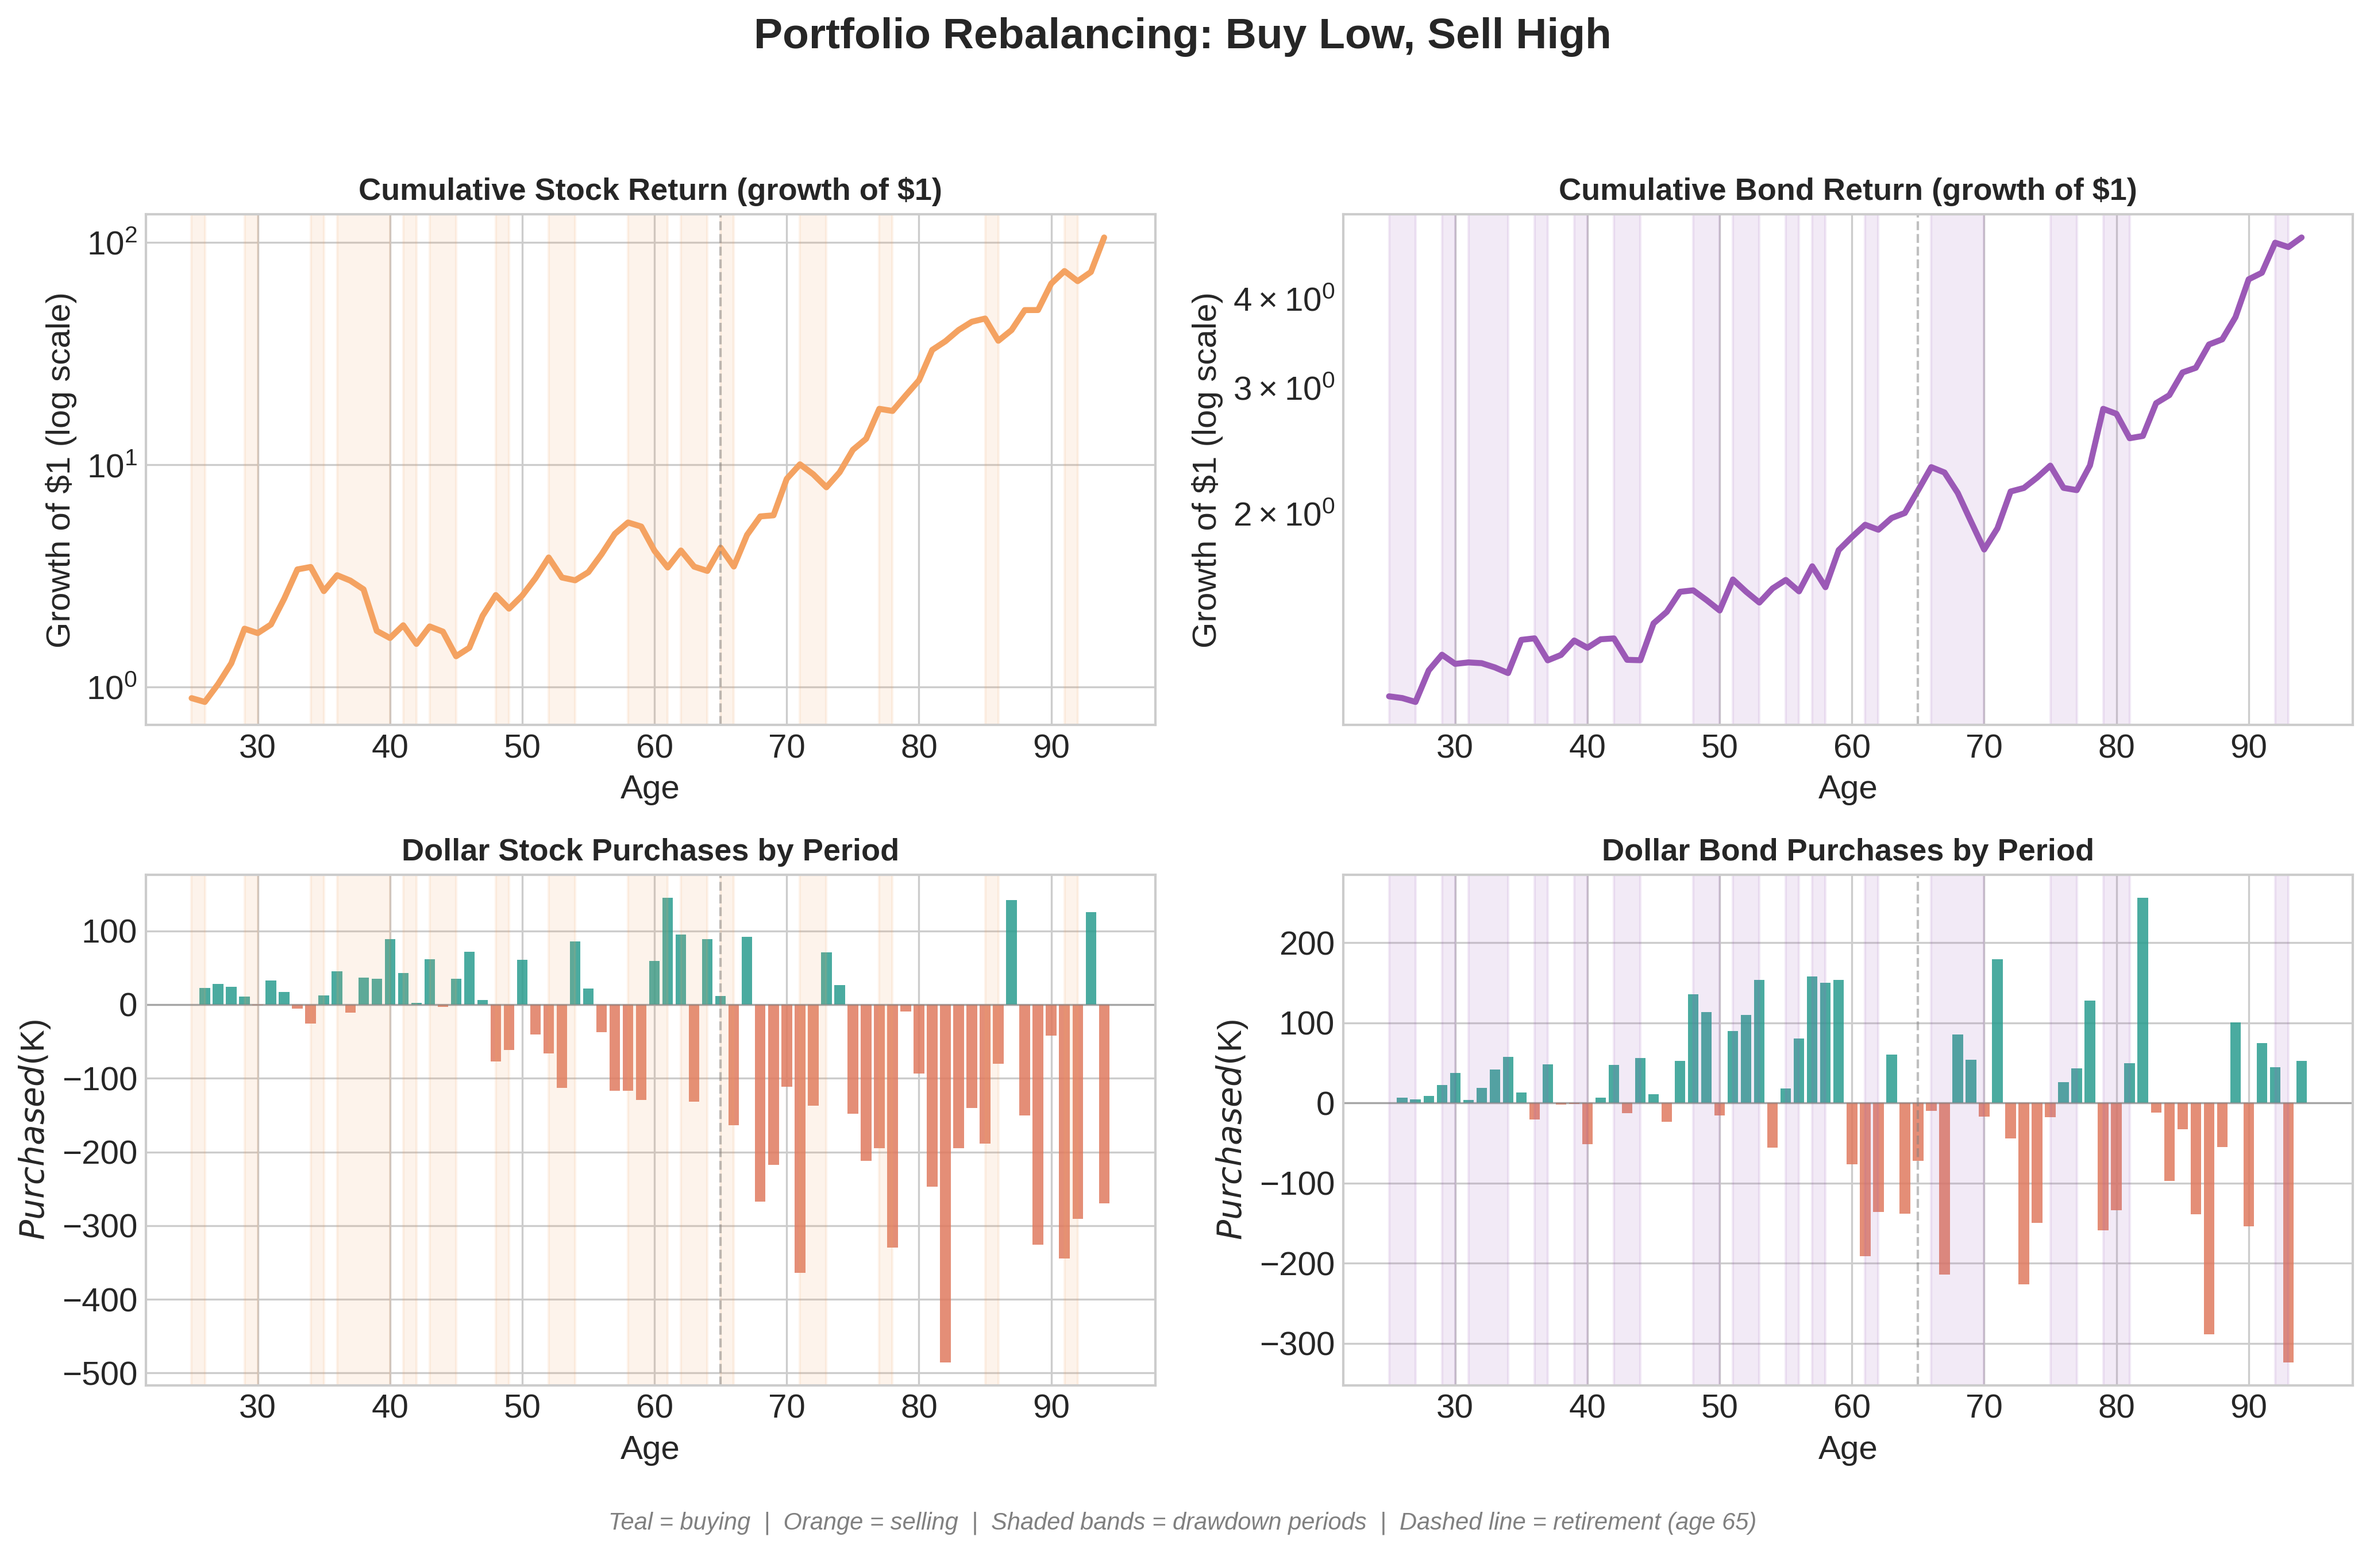
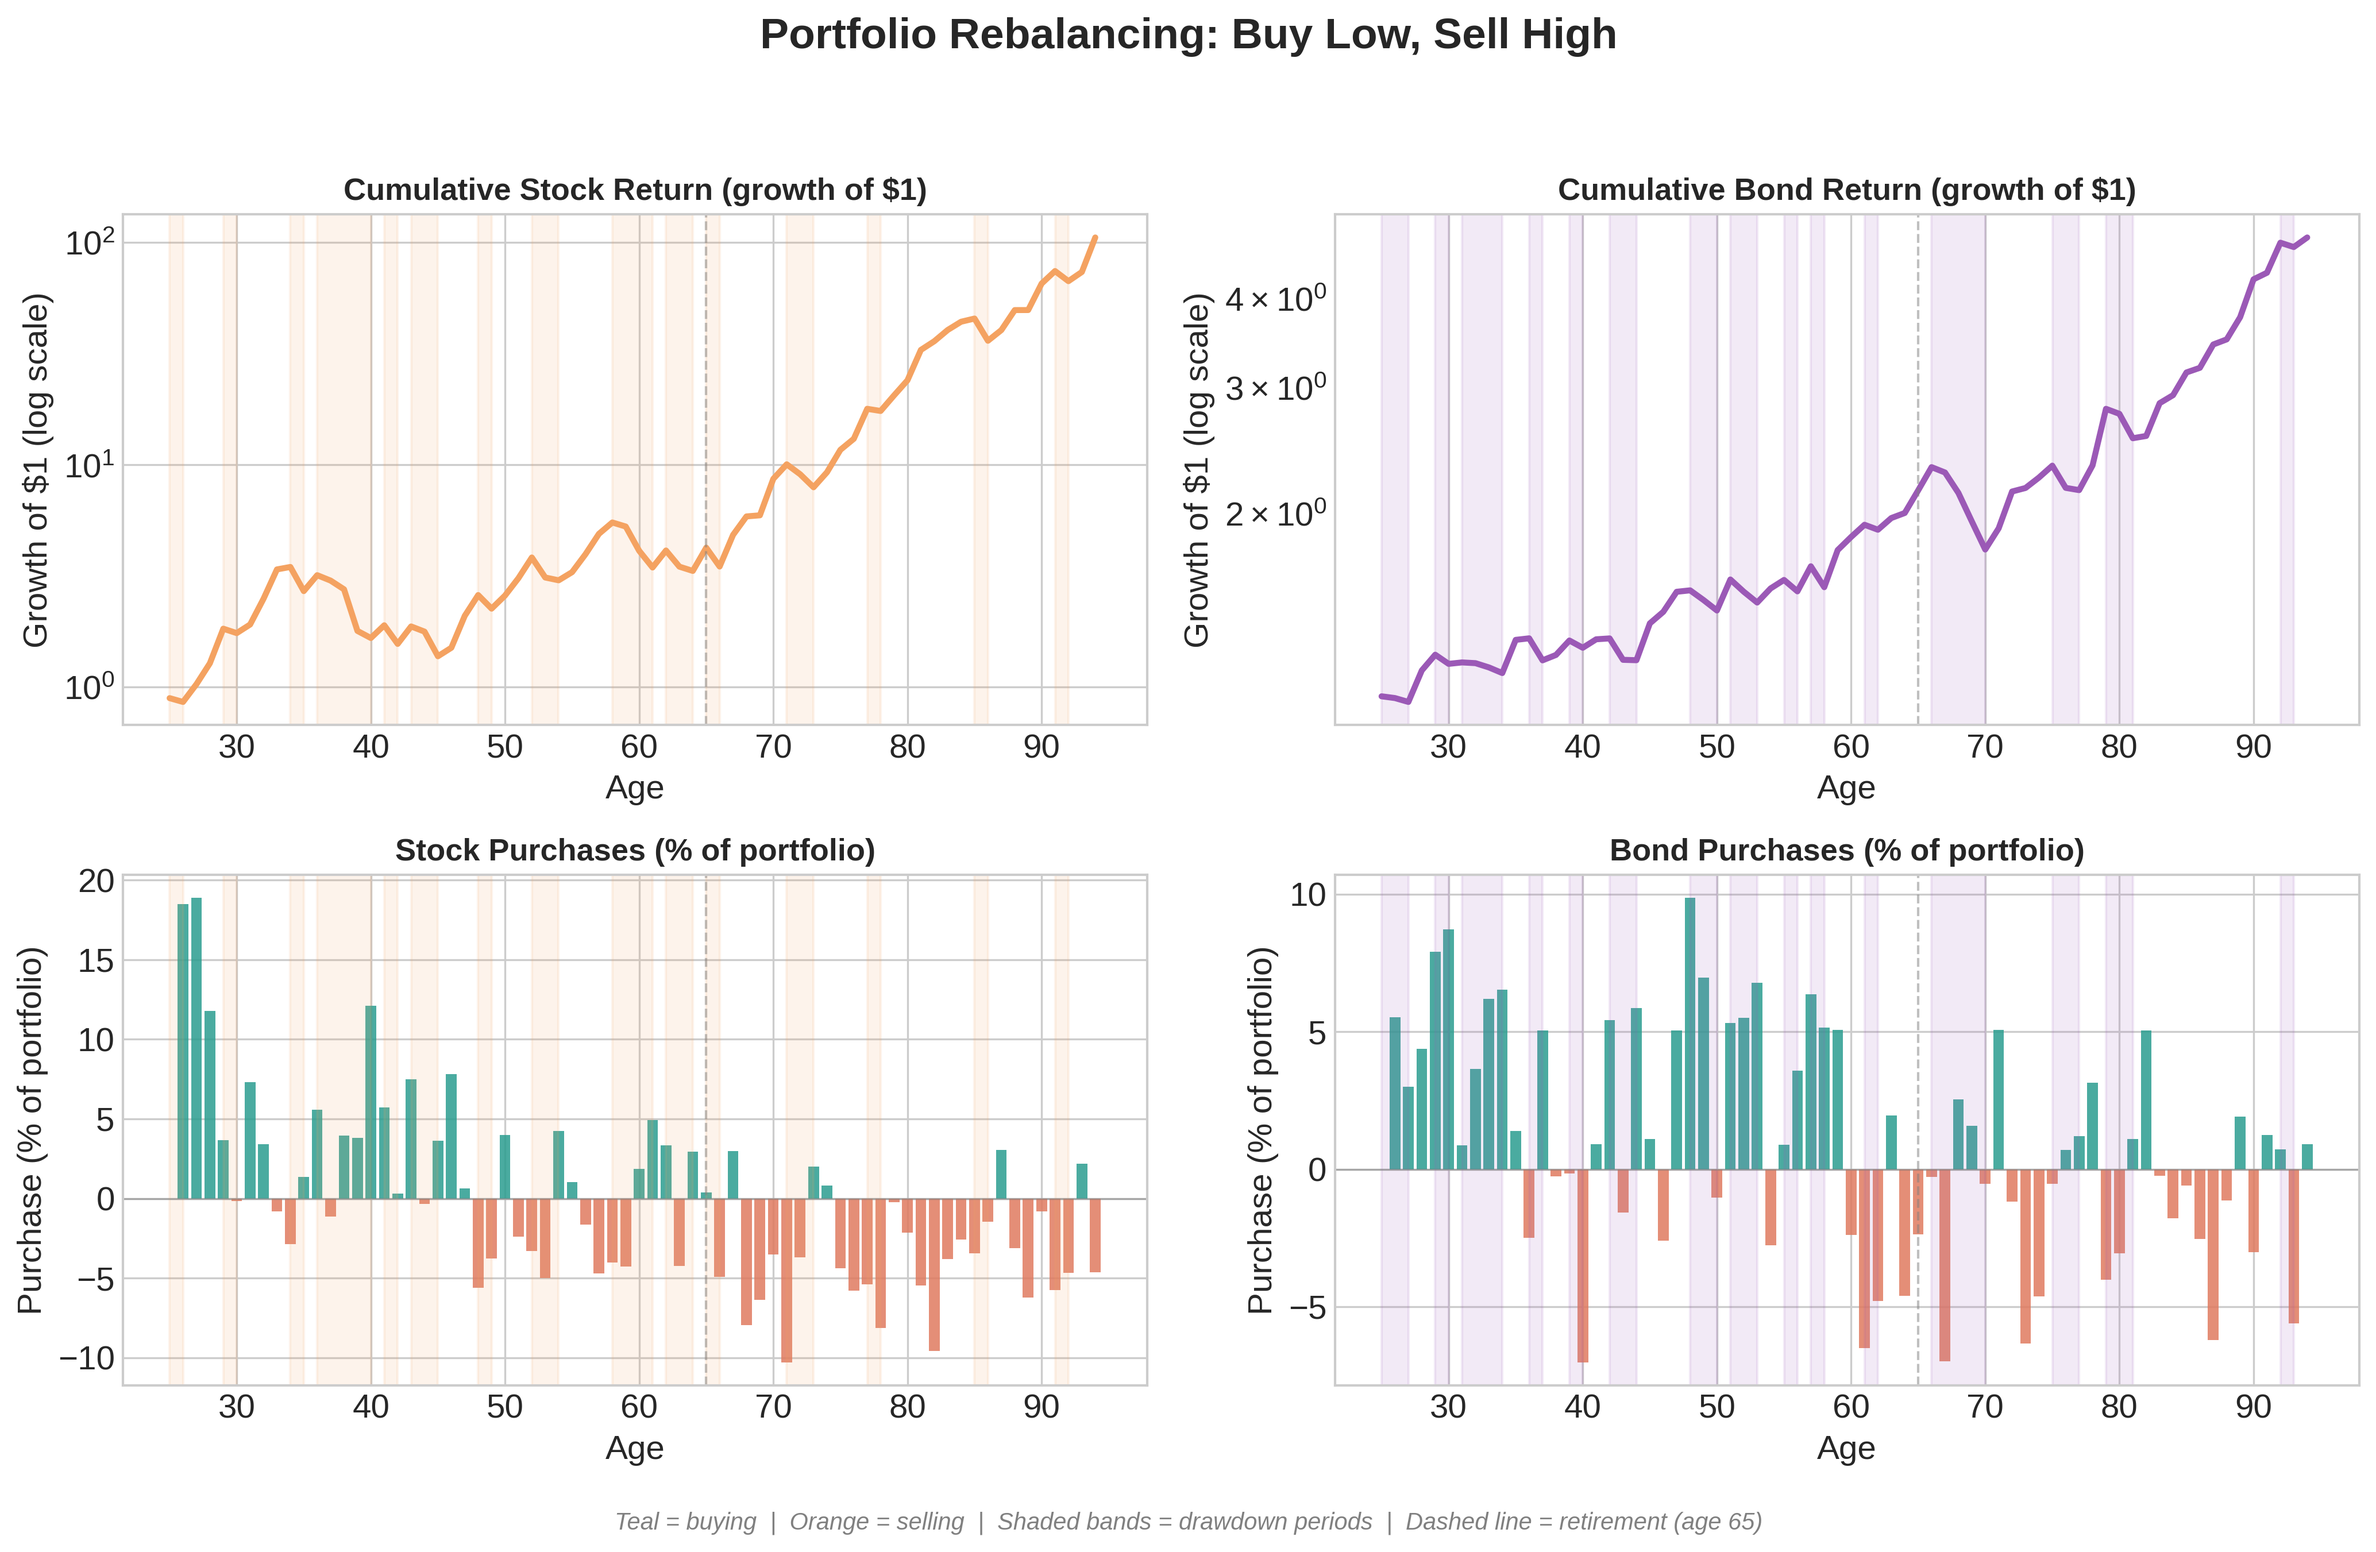
Normalize rebalancing purchases as % of portfolio
Dollar purchases scaled up with wealth, making early vs late career
bars incomparable. Now show purchases as % of portfolio value at
the time of the trade, putting all periods on the same footing.

https://claude.ai/code/session_01PpeKU6b83rqDxJ7jdo9ynp

diff --git a/generate_rebalancing_demo.py b/generate_rebalancing_demo.py
@@ -67,15 +67,15 @@ def compute_rebalancing_data(result, econ_params):
     stock_purchase = fw[1:] * w_s[1:] - stock_after
     bond_purchase = fw[1:] * w_b[1:] - bond_after
 
-    # Pure rebalancing component (all periods)
-    rebal_stock = fw * w_s * (port_ret - stock_ret)
-    rebal_bond = fw * w_b * (port_ret - bond_ret)
+    # Normalize by portfolio value at time of trade (% of portfolio)
+    stock_purchase_pct = stock_purchase / fw[1:]
+    bond_purchase_pct = bond_purchase / fw[1:]
 
     return {
         'stock_purchase': stock_purchase,
         'bond_purchase': bond_purchase,
-        'rebal_stock': rebal_stock,
-        'rebal_bond': rebal_bond,
+        'stock_purchase_pct': stock_purchase_pct,
+        'bond_purchase_pct': bond_purchase_pct,
         'stock_ret': stock_ret,
         'bond_ret': bond_ret,
         'port_ret': port_ret,
@@ -158,28 +158,28 @@ def generate_rebalancing_demo(seed=15, output_path=None):
     ax2.set_xlabel("Age")
     _shade_drawdowns(ax2, ages, growth_bond, bond_color)
 
-    # Panel 3: Dollar stock purchases
+    # Panel 3: Stock purchases as % of portfolio
     ax3 = axes[1, 0]
-    sp = data['stock_purchase']
+    sp = data['stock_purchase_pct'] * 100  # convert to percentage
     colors_s = [buy_color if v >= 0 else sell_color for v in sp]
     ax3.bar(purchase_ages, sp, color=colors_s, alpha=0.85, width=0.8)
     ax3.axhline(y=0, color='gray', linewidth=0.8, alpha=0.5)
-    ax3.set_title("Dollar Stock Purchases by Period", fontsize=13,
+    ax3.set_title("Stock Purchases (% of portfolio)", fontsize=13,
                    fontweight='bold')
-    ax3.set_ylabel("$ Purchased ($K)")
+    ax3.set_ylabel("Purchase (% of portfolio)")
     ax3.set_xlabel("Age")
     # Shade drawdown periods to visually connect to cumulative return above
     _shade_drawdowns(ax3, ages, growth_stock, stock_color)
 
-    # Panel 4: Dollar bond purchases
+    # Panel 4: Bond purchases as % of portfolio
     ax4 = axes[1, 1]
-    bp = data['bond_purchase']
+    bp = data['bond_purchase_pct'] * 100
     colors_b = [buy_color if v >= 0 else sell_color for v in bp]
     ax4.bar(purchase_ages, bp, color=colors_b, alpha=0.85, width=0.8)
     ax4.axhline(y=0, color='gray', linewidth=0.8, alpha=0.5)
-    ax4.set_title("Dollar Bond Purchases by Period", fontsize=13,
+    ax4.set_title("Bond Purchases (% of portfolio)", fontsize=13,
                    fontweight='bold')
-    ax4.set_ylabel("$ Purchased ($K)")
+    ax4.set_ylabel("Purchase (% of portfolio)")
     ax4.set_xlabel("Age")
     _shade_drawdowns(ax4, ages, growth_bond, bond_color)
 
